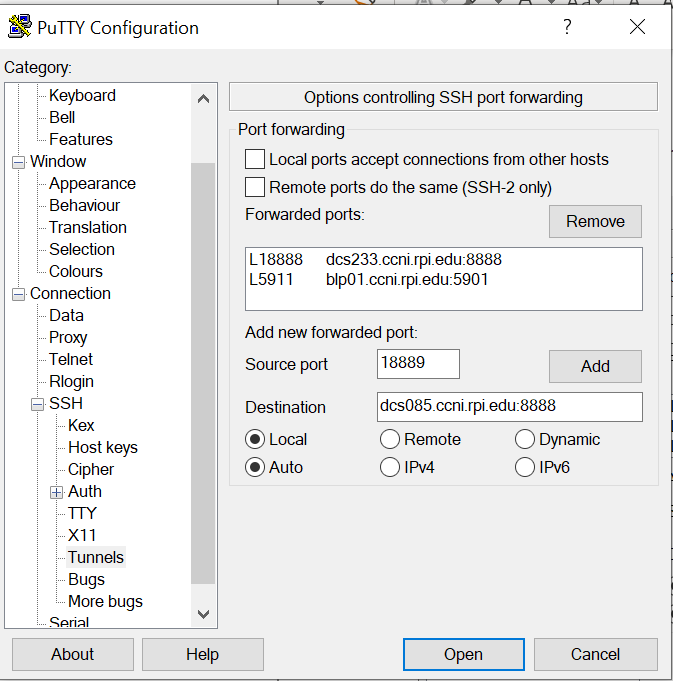
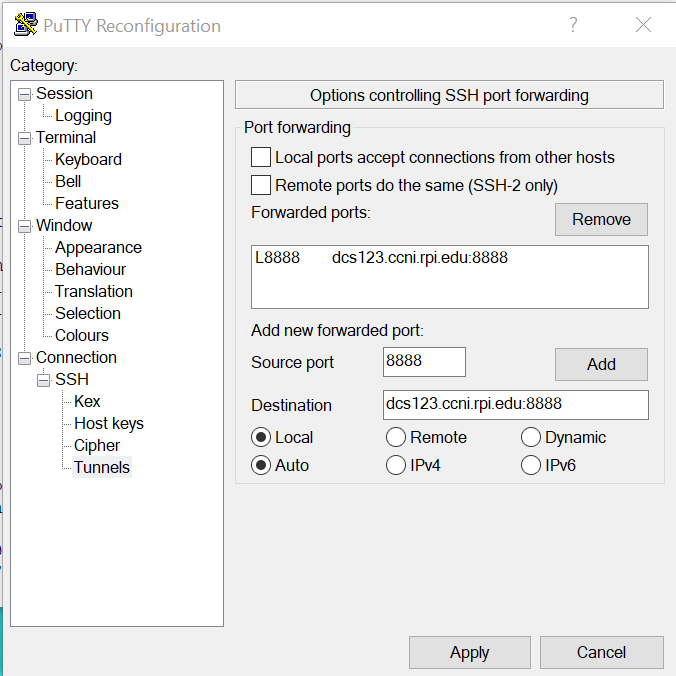
more doc updates 10

diff --git a/docs/searchindex.js b/docs/searchindex.js
@@ -1,1 +1,1 @@
-Search.setIndex({docnames:["aimos-basics","aimos-benchmark","aimos-env-basics","aimos-getting-help","aimos-hints-tips","aimos-submit-job","aimos-userid","aimos-workload","index"],envversion:{"sphinx.domains.c":2,"sphinx.domains.changeset":1,"sphinx.domains.citation":1,"sphinx.domains.cpp":2,"sphinx.domains.index":1,"sphinx.domains.javascript":2,"sphinx.domains.math":2,"sphinx.domains.python":2,"sphinx.domains.rst":2,"sphinx.domains.std":1,sphinx:56},filenames:["aimos-basics.rst","aimos-benchmark.rst","aimos-env-basics.rst","aimos-getting-help.rst","aimos-hints-tips.rst","aimos-submit-job.rst","aimos-userid.rst","aimos-workload.rst","index.rst"],objects:{},objnames:{},objtypes:{},terms:{"0kb":4,"10g":2,"16node":1,"1kb":4,"1node":1,"243g":5,"249g":5,"256g":5,"25m":5,"27t12":2,"2node":1,"387t":5,"3kb":4,"48hr":[2,5],"4node":1,"640t":5,"64k":5,"77m":5,"843d9e0198f2a193a3484886fa28163c":7,"8node":1,"case":[2,6],"class":1,"default":[1,2,4,7],"export":[2,4,7],"import":[1,2,4,6,7],"long":2,"new":[4,6,8],"null":4,"public":[2,4,7],"return":[5,7],"short":[0,6,8],"switch":1,"try":[1,2],"var":5,DCS:[0,2,5,6,7,8],For:[0,1,2,3,4,5,6,7],Its:2,QoS:2,That:7,The:[0,1,4,5,6,7,8],There:[0,2,4,5,6],These:2,Use:[5,6],Used:[5,8],With:5,__conda_setup:4,_download:7,_libgcc_mutex:7,abil:2,abort:7,abov:[1,5,7],absolut:7,ac922:0,acceler:7,accept:[6,7],access:[0,1,2,3,4,5,8],accordingli:1,account:[2,6],accur:2,accuraci:1,activ:[5,7],adc:6,add:[6,7],add_argu:1,add_scalar:1,added:[2,5,7],adding:2,addit:[0,1,2,8],address:5,advanc:2,affect:2,after:[1,5,6,7],again:2,age:2,agreement:7,aimo:[1,3,5,7],aimos_cleveland_clin:6,aimos_kla:6,aimos_synopsi:6,aimos_tel:6,aimosx:0,albani:8,alia:7,all:[2,3,4,5,6,7],alloc:[0,5],allow:[5,7],along:6,alreadi:[2,5,6],also:[0,2,4,5,6,7],altern:5,among:2,anaconda3:7,anaconda:[4,8],ani:[2,6],anoth:[2,6],answer:[3,6],app:6,appli:8,applic:[0,4,5,7],appropri:[2,7],approv:[2,6],arch:4,architectur:[4,7],archiv:7,area:2,arg:1,around:3,asn1crypto:7,asset:6,assum:[2,4,5],assumpt:6,attempt:2,authent:[5,6],authorized_kei:2,auto_activate_bas:7,automak:7,automat:7,avail:[1,2,3,4,5,7],averag:2,avg:1,avoid:4,awk:5,backup:6,bank:6,barn:[2,4,5,7],base:[3,4,5,6,7],bash:[2,4,5,7],bashrc:[2,7,8],basi:2,basic:8,batch:[2,8],bazel:7,becaus:2,bed:[0,8],been:[2,5],befor:[0,4,7],begin:2,below:[5,7],benchmark:8,best:[2,3,7],better:2,between:[2,5],bin:[4,5,7],bind:5,block:4,blog:1,blp01:[0,1,4,6,7],blp02:[0,6],blp03:[0,6],blp04:[0,6],blp:4,blue:3,bmhr:[1,2,4,7],bmhrkmkh:[1,2,4,5,6,7],bmhrxxxx:6,both:7,briot:1,brower:1,browser:7,build:[0,7],built:4,bus:4,busi:2,cab:8,cach:7,cad:[6,8],calcul:2,call:3,can:[0,1,2,4,5,6,7],cancel:2,capabl:[2,5],cat:2,ccach:7,cci:[0,2,4,5,7],cci_user_inform:6,cci_user_responsibility_agr:6,ccni:[0,1,4,5,6,7],center:[0,1,2,6,8],certif:7,cgroup:5,chang:[2,7],channel:[1,3,4,7],charact:6,chdir:2,cheatsheet:7,check:[2,4],checkpoint:2,chip:8,choos:6,chosen:6,clang:7,click:[6,7],close:7,cluster:[0,2,5,7,8],cmake3:7,cmake:7,code:[2,4,7],collect:7,com:[1,2,3,4,6,7],combin:[2,5,7],come:[2,7],command:[0,1,4,5,8],common:8,commun:7,compil:[0,7],complet:[2,5,6,7],comput:[2,4,8],concaten:2,conda:[1,8],condabin:7,condarc:[7,8],conf:7,config:7,configur:[0,2,4],confirm:7,connect:[4,7],consid:7,consist:[0,2],constraint:2,consum:2,contain:[0,1,2,4,5,7],content:[4,8],continu:[2,7],copi:4,core:[0,5],count:2,cpu:[2,7],creat:[2,4,5,8],csh:7,csv:1,ctrl:7,cuda:7,current:[2,5,7],current_repodata:7,custom:2,cut:4,dai:2,data:[6,8],dataset:8,dcs003:1,dcs009:1,dcs026:1,dcs035:7,dcs049:1,dcs055:5,dcs085:7,dcs218:2,dcs249:[2,5],dcs:[2,5,7],dcs_supercomput:5,dcsfen01:[0,1,2,4,5,6,7],dcsfen02:[0,2,4,6],deactiv:7,dealloc:5,debug:2,deep:7,defin:[1,2],deni:5,depend:[4,7],describ:[6,7],descript:6,desktop:4,destop:1,determin:2,dev:[4,5],develop:[0,2,7],developpez:1,devic:6,devtmpf:5,dhe:[4,7],differ:[0,7],dir:[1,7],direct:5,directori:[1,2,4,5,7],disk:4,displai:[1,2,8],distribut:7,divis:6,doc:[1,4,7],document:[0,1,6,7],documet:3,doe:[2,6,7],don:2,done:7,down:2,download:[1,7],drain:2,dram:0,draw:1,dual:0,due:2,each:[0,2],earli:4,eas:1,ecdsa:[2,5,7],edit:7,edr:0,edt:3,edu:[0,1,2,4,5,6,7],effect:[2,7],effectvusag:2,effici:7,either:[2,6],els:[1,4,5],email:[2,3,5,6],emerg:3,empti:2,enabl:[2,7,8],end:[2,4,5,7,8],enough:2,enter:[2,6,7],enterpris:7,entri:7,env:[5,7],environ:[0,4,5,6,8],epoch:1,err:[2,5],error:[2,4],esourc:2,essenc:5,estim:2,etc:[0,1,2,3,4,5,7],eval:4,event:1,everyon:2,everyth:6,exampl:[1,2,4,5,6,7],exceed:5,except:1,execut:[0,2,4,5,7],exist:[2,6,7],experi:[1,2],experiment:1,expr:5,express:2,extens:[4,7],extenst:7,extern:[0,6],facil:3,factor:2,fail:[2,5],fair:2,fairseq:1,fals:7,fan:1,feb:6,fewer:2,fftw:7,fichier:1,fifti:0,file:[4,5,7,8],file_system:2,filesystem:[2,5,7],fill:6,find:[0,3,4,7],fingerprint:2,finish:7,first:[0,2,5,6],fish:7,fit:2,fix:2,focus:8,follow:[2,4,5,6,7],forg:[4,7],forget:[2,6],form:6,format:1,formerli:7,forward:2,found:6,four:6,fourteen:0,framework:7,free:[1,7],frequent:8,frequently_asked_quest:4,fri:6,from:[1,2,4,5,6,7],front:[2,4,5,7,8],full:8,gatewai:6,gcc:[5,7],gener:[2,5,7,8],get:[2,4,5,6,8],get_start:1,ghz:0,gib:[0,2],git:7,github:1,given:2,global:8,global_rank:1,gnu:7,gold:0,googl:6,gpf:[1,4,5,7,8],gpu:[0,1,2,4,5,7],gpu_uuid:1,grade:7,grant:[2,5],graph:1,gre:[2,5,7],greater:2,grep:7,group:2,guest:6,guid:4,h1bed415_2:7,h7b6447c_3:7,hardwar:[0,1,2,4,6,7,8],has:[0,2,5],have:[0,1,2,3,5,6,7],hbm:0,hdf5:7,header:0,headquart:8,hello_mpi:5,hello_mpi_:5,hello_mpi_c:5,help:[1,8],henc:2,here:[6,7],herger:[2,3,6],high:4,hint:[2,8],home:[1,2,4,7],hook:[4,7],hopefulli:2,host:[1,2,5,7],host_nam:4,hostfil:5,hostnam:[4,5],hour:[2,3,6,8],how:[0,2,4,5,6,7],howev:2,hpc:4,hpcman:6,hpe:0,htm:7,html:[1,2,4],http:[0,1,2,4,5,6,7],http_proxi:2,https_proxi:2,hub:8,hundr:0,hwloc:7,i7oyesm4ius9vhbtxoyi4vy7daot9fmpjoq8ssiibci:2,ibm:[0,1,2,3,4,6,7,8],ibm_powerai_license_accept:7,ibmdl:[4,7],id_rsa:2,identif:2,idh:7,idl:2,imag:2,impact:2,impl:2,implement:2,importerror:1,includ:[2,5,7],increas:2,individu:7,infiniband:0,info:7,inform:[0,1,2,4,5,7],ing:6,init:[7,8],initi:[4,5,6,7,8],input:2,insid:2,instal:[1,4,6,8],instead:5,integr:1,intel:0,intend:[2,7],interact:8,interest:1,inux:2,invok:2,ipynb:[1,4],issu:[0,3,6],its:[2,5,8],jerom:1,job:[0,8],job_64444:5,job_:5,job_id:5,jobid:[2,5,7],json:7,jun:6,jupyt:[1,4,8],justif:2,kei:2,keygen:2,kill:5,know:4,knowledgecent:7,known:[2,5,7],kvt:[1,7],l6006:1,l8888:7,land:[2,4,7,8],landingpad:[0,4],laptop:4,larg:[2,4],last:[2,6],later:[0,2],latest:[4,5,7],launch:2,layout:2,lead:6,leader:6,learn:[1,7],least:6,less:2,let:2,letter:6,level:[2,7],lib:7,librari:[0,5,8],licens:7,like:[2,5],limit:[5,6],line:[2,5,6,7],link:[0,2,6],linux:[4,5],linuxonpow:7,list:[1,2,5,6,7],llvm:7,load:[0,5,8],local:7,localhost:[1,7],locat:7,locker:1,log:[0,1,2,4,5,6,7],log_dir:1,log_writ:1,logdir:1,logdir_spec:1,login:[0,2,5,7,8],logwritt:1,longer:[2,5],look:4,loop:1,lorrain:[2,3,6],loss:1,machin:[1,7],made:[1,6],mai:[0,2,4,6,7],mail:[2,5],main:7,maintain:2,mainten:3,make:7,man_index:2,manag:[0,4,6,8],manpag:2,map:7,mar:6,max:2,maximum:[2,5],mean:2,meant:2,medium:2,meet:2,mellanox:0,member:6,memori:[1,4],metadata:7,min:2,miniconda3:[4,5,7],miniconda:7,minim:7,minut:[2,5,7],miss:6,mnt:5,mob2:1,mobil:6,mobilenetv2:1,modifi:[1,4,7],modul:[0,4,5,8],monitor:8,month:2,more:[0,1,2,4,5,7],mount:[2,4,5,7],mpi:[2,5,7],mpirun:[5,7],multigpu_bas:4,multipl:1,must:[4,5,7],nagement:2,name:[2,4,5,6,7],navig:7,ncpu:2,need:[0,1,2,6,7],newli:6,next:[6,7,8],noarch:4,node:[2,4,8],nodelist:[2,5,7],none:1,normshar:2,note:[2,4,5,6,7],notebok:7,notebook:[1,4,8],notif:[2,3],notifi:2,now:[1,2,5,6,7],npl41:6,npl:[0,2,5,6,7,8],nplfen01:[0,4,6],ntask:[2,5],ntellig:[0,8],number:[2,3,5,6],nvidia:[0,7],nvidia_2nod:1,nvme0n1:5,nvme:[0,8],obtain:6,off:3,onc:[2,6],one:[0,2,5,6,7],onli:[0,1,2,3,5,6,7],open:[1,7],openmpi:4,oper:[2,4,6],opt:7,option:5,order:[0,1,2,4,7],org:[1,7],organ:6,other:[2,5],out:[1,2,3,5,6,8],output:2,over:2,overal:2,overview:[6,8],overwrit:2,own:6,pack:2,packag:[1,4,7],pad:[2,4,7,8],page:3,pair:2,pam_slurm_adopt:5,parallel:2,paramet:7,parent:2,parser:1,particularli:2,partit:[2,5,7],partner:[2,6],pass:2,passphras:2,password:4,passwordless:[5,6],pasword:6,path:[2,4,5,7],payload:7,pci:4,pdf:[2,6,7],pend:2,per:[0,2,5],percentag:2,perform:2,period:2,perman:[2,5,7],persist:5,person:2,phone:3,pic:4,pin:6,pip:7,pkg:7,place:1,plan:7,pleas:[0,2,3,4,6,7],plot:1,plot_nvidia:1,point:1,polici:6,popular:7,port:[1,7],possibl:4,post:3,potenti:8,power9:0,power:[0,1,3,5,7,8],powerai:[4,8],ppc64le:[4,5,7],practic:7,prebuilt:4,prefer:7,prefix:7,prepar:7,prerequisit:8,press:7,previou:6,primari:2,print:5,prioriti:2,privat:2,proce:7,process:[2,6,7,8],processor:0,profil:[4,7],program:[2,5],proj:2,project:[2,4,6,7],prompt:[4,6,7],properti:1,provid:[1,4,6],proxi:[6,7],ps1:7,psm1:7,pstate:1,ptimiz:[0,8],pub:[2,4,7],purg:2,pwd:5,py37_0:7,python3:7,python:7,pytorch:[1,7],pytorch_:2,qos:[2,5],qualiti:2,queri:1,question:[3,6],queue:5,quota:[2,4],rack:0,ram:0,randomart:2,rapid:7,rawshar:2,rawusag:2,read:2,readi:6,real:2,realiz:8,reason:[2,5,7],recalcul:2,receiv:[2,5,6],recip:1,recommend:[2,6,7],ref:7,refer:[0,7],regard:5,regularli:2,relat:3,releas:7,rememb:2,remot:2,remov:[2,5,7],reorder:2,replac:7,repo:[1,7],report:[2,5,6],repositori:[4,8],request:[1,2,6,8],requir:[2,5,7,8],research:[0,6,8],reset:6,resnet:1,resourc:[0,6,8],respect:1,restart:2,review:7,revok:5,rhel:[1,7],root:4,rootf:5,rpi:[0,1,2,4,5,6,7],rsa:2,rtifici:[0,8],run:[0,1,2,7,8],runtim:[2,4],sai:2,salloc:[5,7],same:[2,4,7],sampl:[1,5,8],save:2,sbatch:5,scan:6,schedmd:2,schednod:2,schedul:[0,3,8],scp:4,scratch:[1,2,4,5,7],script:[1,2,5],scriptthat:5,search:[4,7],sec:0,section:[0,1,2,6,7],secur:[0,2,3,4,5,6,7],see:[0,1,2,4,5,6,7],send:[2,3,6],sensit:6,sent:3,separ:7,serv:[0,2,8],server:[4,7],servic:[2,6],session:[5,7],set:[1,4,5,8],setup:[1,5,6,7,8],sha256:2,share:[4,5,7,8],she:2,shell:[2,4,7],shm:5,shorter:2,should:[1,2,3,5,7],sign:6,signal:5,signific:2,similar:6,sinc:[2,4,7],singl:1,site:7,size:[2,4,5],slack:[1,3],slice:2,sllocal:5,slot:5,slurm:[0,5,8],slurm_job_num_nod:5,slurm_job_uid:5,slurm_jobid:5,slurm_nproc:5,slurm_ntask_per_nod:5,slurm_ntasks_per_nod:5,small:2,snippet:4,softwar:[4,7],solv:7,some:[0,1,2,4],sometim:0,sort:5,sourc:[1,2,7],space:[2,6],spec:7,special:6,specif:[4,7],specifi:[2,4,5,7],spectrum:[5,7],spectrum_mpi:[4,7],speed:[1,4,8],spider:[4,7],squeue:[5,7],sromxxxx:6,srun:[2,5],ss5sf7_1:7,ssd:0,ssh:[1,2,5],stabl:1,stage:2,standard:2,start:[1,2,5],start_tim:2,startup:7,state:2,step:[1,2,5,6,7],storag:[0,2,8],store:[1,2],strongli:[2,6,7],subject:6,submit:[0,2,8],subsequ:2,suffici:[2,6],summari:2,summarywrit:1,summit:0,support:[3,6,7,8],sure:7,sys:5,system:[0,4,5,6,7,8],take:[2,7],tangibl:2,task:[2,4],team:2,tee:1,tell:5,temperatur:1,temporari:2,tensorboard_with_pytorch:1,tensorflow:[1,7],term:[2,6,7],termin:4,tesla:0,test:[0,7,8],test_mobnetv2:1,test_mobnetv2_16:1,test_mobnetv2_1:1,test_mobnetv2_2:1,test_mobnetv2_4:1,test_mobnetv2_8:1,text:7,tfevent:1,than:[2,7],thank:7,thei:[2,5],them:[0,6],thi:[0,1,2,4,5,6,7],thing:[2,7],those:2,throughput:2,thu:6,tiliti:2,time:[2,6,7,8],timelimit:2,timestamp:1,tip:8,titl:6,tmp:5,tmpf:5,togeth:[1,4],token:[4,6,7],tool:[0,5,8],toolkit:1,top1:1,torch:1,total:[1,2],totp:6,train:1,transact:7,transfer:8,transferring_large_fil:4,tremend:8,troubleshoot:8,tuesdai:3,tunnel:[1,8],tutori:1,twice:6,two:[0,2,6],txt:1,type:[2,5],typic:2,uid:5,uid_6112:5,uid_:5,ultiprocess:[0,8],unam:4,unless:2,unpack:7,unpreced:8,unschedul:3,unset:4,updat:7,url:7,usag:[2,4],use:[0,1,2,4,5,6,7],used:[0,1,2,6],user:[1,2,3,4,5,7,8],uses:2,using:[2,4,5,6],usr:7,usual:7,util:[1,2],v100:0,val:1,valid:[1,7],valu:[2,5],variabl:5,variant:0,variou:7,verifi:7,versa:7,version:7,via:[0,2,5,8],vice:7,visibl:2,visual:7,volta:0,vulner:3,wait:2,want:[1,4,5,7],warn:[2,5,7],water:3,watson:7,web:7,webgui:8,webpag:6,weekli:3,weight:2,welcom:7,well:7,were:1,wget:7,what:[2,5,7,8],when:[2,4,5],where:[0,4,6,7],which:[2,4,5,7],who:[2,6],whole:[2,5,7],wiki:[0,2,4,5,6,7],window:4,wish:[6,7],within:[2,4],without:6,wml:[4,8],wmlce:7,wmlce_instal:7,work:[2,3],workdir:2,workload:[2,4,8],would:[2,5,7],writ:7,write:2,www:[1,7],x86:[0,5,7,8],x86_64:7,xeon:0,xobo:2,xontrib:7,xsh:7,xxx:1,xxxxxxxxxxxxxxxx:6,yaml:7,yes:7,yet:5,york:8,you:[0,1,2,3,4,5,6,7],your:[0,1,2,3,4,5,8],yourid:5,ystem:0,zlib:7},titles:["AiMOS Overview","AI Benchmarks","AiMOS Environment Basics","Getting Help?","Hints and Tips","Submit jobs","Access to AiMOS","Set up the workload environment","AiMOS Quick Start Information"],titleterms:{"new":7,DCS:4,The:2,Used:[2,7],access:6,addit:7,agreement:6,aimo:[0,2,4,6,8],alloc:[2,7],anaconda:7,appli:6,bashrc:4,basic:2,batch:5,benchmark:1,cab:1,cad:1,cci:6,challeng:6,channel:6,cluster:4,code:[1,6],collect:1,command:[2,7],common:1,comput:[0,5,7],conda:[4,7],condarc:4,creat:7,data:[1,4],dataset:1,detail:2,displai:7,end:[0,6],environ:[2,7],fairshar:2,file:2,frequent:[2,7],front:[0,6],gener:4,get:3,gpf:2,help:3,hint:4,hour:5,identif:6,inform:[6,8],init:4,initi:2,instal:7,interact:5,job:[2,5],join:6,jupyt:7,land:[0,6],librari:7,limit:2,linux:7,load:7,login:6,mac:7,manag:2,modul:7,monitor:1,node:[0,5,6,7],notebook:7,npl:4,nvidia:1,nvme:5,option:2,osx:7,out:4,overview:0,pad:[0,6],password:6,passwordless:2,person:6,pic:6,polici:2,power:4,powerai:7,prerequisit:[5,7],proxi:2,putti:7,queue:2,quick:8,repositori:1,request:5,resourc:2,respons:6,run:5,salloc:2,sampl:4,sbatch:2,scancel:2,schedul:2,set:[2,6,7],setup:2,share:2,sinfo:2,slack:6,slurm:2,smi:1,snippet:1,squeue:2,ssh:[6,7],sshare:2,start:[7,8],storag:5,submit:5,system:2,tensorboard:1,time:5,tip:4,tool:[1,7],transfer:4,troubleshoot:4,tunnel:7,user:6,via:7,visual:1,webgui:7,what:0,window:7,wml:7,word:6,workload:7,x86:4,your:[6,7]}})
+Search.setIndex({docnames:["aimos-basics","aimos-benchmark","aimos-env-basics","aimos-getting-help","aimos-hints-tips","aimos-submit-job","aimos-userid","aimos-workload","index"],envversion:{"sphinx.domains.c":2,"sphinx.domains.changeset":1,"sphinx.domains.citation":1,"sphinx.domains.cpp":2,"sphinx.domains.index":1,"sphinx.domains.javascript":2,"sphinx.domains.math":2,"sphinx.domains.python":2,"sphinx.domains.rst":2,"sphinx.domains.std":1,sphinx:56},filenames:["aimos-basics.rst","aimos-benchmark.rst","aimos-env-basics.rst","aimos-getting-help.rst","aimos-hints-tips.rst","aimos-submit-job.rst","aimos-userid.rst","aimos-workload.rst","index.rst"],objects:{},objnames:{},objtypes:{},terms:{"0kb":4,"10g":2,"16node":1,"1kb":4,"1node":1,"243g":5,"249g":5,"256g":5,"25m":5,"27t12":2,"2node":1,"387t":5,"3kb":4,"48hr":[2,5],"4node":1,"640t":5,"64k":5,"77m":5,"843d9e0198f2a193a3484886fa28163c":7,"8node":1,"case":[2,6],"class":1,"default":[1,2,4,7],"export":[2,4,7],"import":[1,2,4,6,7],"long":2,"new":[4,6,8],"null":4,"public":[2,4,7],"return":[5,7],"short":[0,6,8],"switch":1,"try":[1,2],"var":5,DCS:[0,2,5,6,7,8],For:[0,1,2,3,4,5,6,7],Its:2,QoS:2,That:7,The:[0,1,4,5,6,7,8],There:[0,2,4,5,6],These:2,Use:[5,6],Used:[5,8],With:5,__conda_setup:4,_download:7,_libgcc_mutex:7,abil:2,abort:7,abov:[1,5,7],absolut:7,ac922:0,acceler:7,accept:[6,7],access:[0,1,2,3,4,5,8],accordingli:1,account:[2,6],accur:2,accuraci:1,activ:[5,7],adc:6,add:[6,7],add_argu:1,add_scalar:1,added:[2,5,7],adding:2,addit:[0,1,2,8],address:5,advanc:2,affect:2,after:[1,5,6,7],again:2,age:2,agreement:7,aimo:[1,3,5,7],aimos_cleveland_clin:6,aimos_kla:6,aimos_synopsi:6,aimos_tel:6,aimosx:0,albani:8,alia:7,all:[2,3,4,5,6,7],alloc:[0,5],allow:[5,7],along:6,alreadi:[2,5,6],also:[0,2,4,5,6,7],altern:5,among:2,anaconda3:7,anaconda:[4,8],ani:[2,6],anoth:[2,6],answer:[3,6],app:6,appli:[7,8],applic:[0,4,5,7],appropri:[2,7],approv:[2,6],arch:4,architectur:[4,7],archiv:7,area:2,arg:1,around:3,asn1crypto:7,asset:6,assum:[2,4,5],assumpt:6,attempt:2,authent:[5,6],authorized_kei:2,auto_activate_bas:7,automak:7,automat:7,avail:[1,2,3,4,5,7],averag:2,avg:1,avoid:4,awai:7,awk:5,backup:6,bank:6,barn:[2,4,5,7],base:[3,4,5,6,7],bash:[2,4,5,7],bashrc:[2,7,8],basi:2,basic:8,batch:[2,8],bazel:7,becaus:2,bed:[0,8],been:[2,5],befor:[0,4,7],begin:2,below:[5,7],benchmark:8,best:[2,3,7],better:2,between:[2,5],bin:[4,5,7],bind:5,block:4,blog:1,blp01:[0,1,4,6,7],blp02:[0,6],blp03:[0,6],blp04:[0,6],blp:4,blue:3,bmhr:[1,2,4,7],bmhrkmkh:[1,2,4,5,6,7],bmhrxxxx:6,both:7,briot:1,brower:1,browser:7,build:[0,7],built:4,bus:4,busi:2,button:7,cab:8,cach:7,cad:[6,8],calcul:2,call:3,can:[0,1,2,4,5,6,7],cancel:2,capabl:[2,5],cat:2,ccach:7,cci:[0,2,4,5,7],cci_user_inform:6,cci_user_responsibility_agr:6,ccni:[0,1,4,5,6,7],center:[0,1,2,6,8],certif:7,cgroup:5,chang:[2,7],channel:[1,3,4,7],charact:6,chdir:2,cheatsheet:7,check:[2,4],checkpoint:2,chip:8,choos:6,chosen:6,clang:7,click:[6,7],close:7,cluster:[0,2,5,7,8],cmake3:7,cmake:7,code:[2,4,7],collect:7,com:[1,2,3,4,6,7],combin:[2,5,7],come:[2,7],command:[0,1,4,5,8],common:8,commun:7,compil:[0,7],complet:[2,5,6,7],comput:[2,4,8],concaten:2,conda:[1,8],condabin:7,condarc:[7,8],conf:7,config:7,configur:[0,2,4],confirm:7,connect:[4,7],consid:7,consist:[0,2],constraint:2,consum:2,contain:[0,1,2,4,5,7],content:[4,8],continu:[2,7],copi:4,core:[0,5],count:2,cpu:[2,7],creat:[2,4,5,8],csh:7,csv:1,ctrl:7,cuda:7,current:[2,5,7],current_repodata:7,custom:2,cut:4,dai:2,data:[6,8],dataset:8,dcs003:1,dcs009:1,dcs026:1,dcs035:7,dcs049:1,dcs055:5,dcs085:7,dcs123:7,dcs218:2,dcs249:[2,5],dcs:[2,5,7],dcs_supercomput:5,dcsfen01:[0,1,2,4,5,6,7],dcsfen02:[0,2,4,6],deactiv:7,dealloc:5,debug:2,deep:7,defin:[1,2],deni:5,depend:[4,7],describ:[6,7],descript:6,desktop:4,destop:1,determin:2,dev:[4,5],develop:[0,2,7],developpez:1,devic:6,devtmpf:5,dhe:[4,7],differ:[0,7],dir:[1,7],direct:5,directori:[1,2,4,5,7],disk:4,displai:[1,2,8],distribut:7,divis:6,doc:[1,4,7],document:[0,1,6,7],documet:3,doe:[2,6,7],don:2,done:7,down:2,download:[1,7],drain:2,dram:0,draw:1,dual:0,due:2,each:[0,2],earli:4,eas:1,ecdsa:[2,5,7],edit:7,edr:0,edt:3,edu:[0,1,2,4,5,6,7],effect:[2,7],effectvusag:2,effici:7,either:[2,6],els:[1,4,5],email:[2,3,5,6],emerg:3,empti:2,enabl:[2,7,8],end:[2,4,5,7,8],enough:2,enter:[2,6,7],enterpris:7,env:[5,7],environ:[0,4,5,6,8],epoch:1,err:[2,5],error:[2,4],esourc:2,essenc:5,estim:2,etc:[0,1,2,3,4,5,7],eval:4,event:1,everyon:2,everyth:6,exampl:[1,2,4,5,6,7],exceed:5,except:1,execut:[0,2,4,5,7],exist:[2,6,7],experi:[1,2],experiment:1,expr:5,express:2,extens:[4,7],extenst:7,extern:[0,6],facil:3,factor:2,fail:[2,5],fair:2,fairseq:1,fals:7,fan:1,feb:6,fewer:2,fftw:7,fichier:1,fifti:0,file:[4,5,7,8],file_system:2,filesystem:[2,5,7],fill:6,find:[0,3,4,7],fingerprint:2,finish:7,first:[0,2,5,6],fish:7,fit:2,fix:2,focus:8,follow:[2,4,5,6,7],forg:[4,7],forget:[2,6],form:6,format:1,formerli:7,forward:2,found:6,four:6,fourteen:0,framework:7,free:[1,7],frequent:8,frequently_asked_quest:4,fri:6,from:[1,2,4,5,6,7],front:[2,4,5,7,8],full:8,gatewai:6,gcc:[5,7],gener:[2,5,7,8],get:[2,4,5,6,8],get_start:1,ghz:0,gib:[0,2],git:7,github:1,given:2,global:8,global_rank:1,gnu:7,gold:0,googl:6,gpf:[1,4,5,7,8],gpu:[0,1,2,4,5,7],gpu_uuid:1,grade:7,grant:[2,5],graph:1,gre:[2,5,7],greater:2,grep:7,group:2,guest:6,guid:4,h1bed415_2:7,h7b6447c_3:7,hardwar:[0,1,2,4,6,7,8],has:[0,2,5],have:[0,1,2,3,5,6,7],hbm:0,hdf5:7,header:0,headquart:8,hello_mpi:5,hello_mpi_:5,hello_mpi_c:5,help:[1,8],henc:2,here:[6,7],herger:[2,3,6],high:4,hint:[2,8],home:[1,2,4,7],hook:[4,7],hopefulli:2,host:[1,2,5,7],host_nam:4,hostfil:5,hostnam:[4,5],hour:[2,3,6,8],how:[0,2,4,5,6,7],howev:2,hpc:4,hpcman:6,hpe:0,htm:7,html:[1,2,4],http:[0,1,2,4,5,6,7],http_proxi:2,https_proxi:2,hub:8,hundr:0,hwloc:7,i7oyesm4ius9vhbtxoyi4vy7daot9fmpjoq8ssiibci:2,ibm:[0,1,2,3,4,6,7,8],ibm_powerai_license_accept:7,ibmdl:[4,7],id_rsa:2,identif:2,idh:7,idl:2,imag:2,impact:2,impl:2,implement:2,importerror:1,includ:[2,5,7],increas:2,individu:7,infiniband:0,info:7,inform:[0,1,2,4,5,7],ing:6,init:[7,8],initi:[4,5,6,7,8],input:2,insid:2,instal:[1,4,6,8],instead:5,integr:1,intel:0,intend:[2,7],interact:8,interest:1,inux:2,invok:2,ipynb:[1,4],issu:[0,3,6],its:[2,5,8],jerom:1,job:[0,8],job_64444:5,job_:5,job_id:5,jobid:[2,5,7],json:7,jun:6,jupyt:[1,4,8],justif:2,kei:2,keygen:2,kill:5,know:4,knowledgecent:7,known:[2,5,7],kvt:[1,7],l6006:1,l8888:7,land:[2,4,7,8],landingpad:[0,4],laptop:4,larg:[2,4],last:[2,6],later:[0,2],latest:[4,5,7],launch:2,layout:2,lead:6,leader:6,learn:[1,7],least:6,less:2,let:2,letter:6,level:[2,7],lib:7,librari:[0,5,8],licens:7,like:[2,5],limit:[5,6],line:[2,5,6,7],link:[0,2,6],linux:[4,5],linuxonpow:7,list:[1,2,5,6,7],llvm:7,load:[0,5,8],local:7,localhost:[1,7],locat:7,locker:1,log:[0,1,2,4,5,6,7],log_dir:1,log_writ:1,logdir:1,logdir_spec:1,login:[0,2,5,7,8],logwritt:1,longer:[2,5],look:4,loop:1,lorrain:[2,3,6],loss:1,machin:[1,7],made:[1,6],mai:[0,2,4,6,7],mail:[2,5],main:7,maintain:2,mainten:3,make:7,man_index:2,manag:[0,4,6,8],manpag:2,map:7,mar:6,max:2,maximum:[2,5],mean:2,meant:2,medium:2,meet:2,mellanox:0,member:6,memori:[1,4],metadata:7,min:2,miniconda3:[4,5,7],miniconda:7,minim:7,minut:[2,5,7],miss:6,mnt:5,mob2:1,mobil:6,mobilenetv2:1,modifi:[1,4,7],modul:[0,4,5,8],monitor:8,month:2,more:[0,1,2,4,5,7],mount:[2,4,5,7],mpi:[2,5,7],mpirun:[5,7],multigpu_bas:4,multipl:1,must:[4,5,7],nagement:2,name:[2,4,5,6,7],navig:7,ncpu:2,need:[0,1,2,6,7],newli:6,next:[6,7,8],noarch:4,node:[2,4,8],nodelist:[2,5,7],none:1,normshar:2,note:[2,4,5,6,7],notebok:7,notebook:[1,4,8],notebookapp:7,notif:[2,3],notifi:2,now:[1,2,5,6,7],npl41:6,npl:[0,2,5,6,7,8],nplfen01:[0,4,6],ntask:[2,5],ntellig:[0,8],number:[2,3,5,6],nvidia:[0,7],nvidia_2nod:1,nvme0n1:5,nvme:[0,8],obtain:6,off:3,onc:[2,6,7],one:[0,2,5,6,7],onli:[0,1,2,3,5,6,7],open:[1,7],openmpi:4,oper:[2,4,6],opt:7,option:5,order:[0,1,2,4,7],org:[1,7],organ:6,other:[2,5],out:[1,2,3,5,6,8],output:2,over:2,overal:2,overview:[6,8],overwrit:2,own:6,pack:2,packag:[1,4,7],pad:[2,4,7,8],page:3,pair:2,pam_slurm_adopt:5,parallel:2,paramet:7,parent:2,parser:1,particularli:2,partit:[2,5,7],partner:[2,6],pass:2,passphras:2,password:4,passwordless:[5,6],pasword:6,path:[2,4,5,7],payload:7,pci:4,pdf:[2,6,7],pend:2,per:[0,2,5],percentag:2,perform:2,period:2,perman:[2,5,7],persist:5,person:2,phone:3,pic:4,pin:6,pip:7,pkg:7,place:1,plan:7,pleas:[0,2,3,4,6,7],plot:1,plot_nvidia:1,point:1,polici:6,popular:7,port:[1,7],possibl:4,post:3,potenti:8,power9:0,power:[0,1,3,5,7,8],powerai:[4,8],ppc64le:[4,5,7],practic:7,prebuilt:4,prefer:7,prefix:7,prepar:7,prerequisit:8,press:7,previou:6,primari:2,print:5,prioriti:2,privat:2,proce:7,process:[2,6,7,8],processor:0,profil:[4,7],program:[2,5],proj:2,project:[2,4,6,7],prompt:[4,6,7],properti:1,provid:[1,4,6],proxi:[6,7],ps1:7,psm1:7,pstate:1,ptimiz:[0,8],pub:[2,4,7],purg:2,pwd:5,py37_0:7,python3:7,python:7,pytorch:[1,7],pytorch_:2,qos:[2,5],qualiti:2,queri:1,question:[3,6],queue:5,quota:[2,4],rack:0,ram:0,randomart:2,rapid:7,rawshar:2,rawusag:2,read:2,readi:6,real:2,realiz:8,reason:[2,5,7],recalcul:2,receiv:[2,5,6],recip:1,recommend:[2,6,7],ref:7,refer:[0,7],regard:5,regularli:2,relat:3,releas:7,rememb:2,remot:2,remov:[2,5,7],reorder:2,replac:7,repo:[1,7],report:[2,5,6],repositori:[4,8],request:[1,2,6,8],requir:[2,5,7,8],research:[0,6,8],reset:6,resnet:1,resourc:[0,6,8],respect:1,restart:2,review:7,revok:5,rhel:[1,7],root:4,rootf:5,rpi:[0,1,2,4,5,6,7],rsa:2,rtifici:[0,8],run:[0,1,2,7,8],runtim:[2,4],sai:2,salloc:[5,7],same:[2,4,7],sampl:[1,5,8],save:2,sbatch:5,scan:6,schedmd:2,schednod:2,schedul:[0,3,8],scp:4,scratch:[1,2,4,5,7],script:[1,2,5],scriptthat:5,search:[4,7],sec:0,section:[0,1,2,6,7],secur:[0,2,3,4,5,6,7],see:[0,1,2,4,5,6,7],send:[2,3,6],sensit:6,sent:3,separ:7,serv:[0,2,7,8],server:[4,7],servic:[2,6],session:[5,7],set:[1,4,5,8],setup:[1,5,6,7,8],sha256:2,share:[4,5,7,8],she:2,shell:[2,4,7],shm:5,shorter:2,should:[1,2,3,5,7],sign:6,signal:5,signific:2,similar:6,sinc:[2,4,7],singl:1,site:7,size:[2,4,5],slack:[1,3],slice:2,sllocal:5,slot:5,slurm:[0,5,8],slurm_job_num_nod:5,slurm_job_uid:5,slurm_jobid:5,slurm_nproc:5,slurm_ntask_per_nod:5,slurm_ntasks_per_nod:5,small:2,snippet:4,softwar:[4,7],solv:7,some:[0,1,2,4],sometim:0,sort:5,sourc:[1,2,7],space:[2,6],spec:7,special:6,specif:[4,7],specifi:[2,4,5,7],spectrum:[5,7],spectrum_mpi:[4,7],speed:[1,4,8],spider:[4,7],squeue:[5,7],sromxxxx:6,srun:[2,5],ss5sf7_1:7,ssd:0,ssh:[1,2,5],stabl:1,stage:2,standard:2,start:[1,2,5],start_tim:2,startup:7,state:2,step:[1,2,5,6,7],storag:[0,2,8],store:[1,2],strongli:[2,6,7],subject:6,submit:[0,2,8],subsequ:2,suffici:[2,6],summari:2,summarywrit:1,summit:0,support:[3,6,7,8],sure:7,sys:5,system:[0,4,5,6,7,8],take:[2,7],tangibl:2,task:[2,4],team:2,tee:1,tell:5,temperatur:1,temporari:[2,7],tensorboard_with_pytorch:1,tensorflow:[1,7],term:[2,6,7],termin:[4,7],tesla:0,test:[0,7,8],test_mobnetv2:1,test_mobnetv2_16:1,test_mobnetv2_1:1,test_mobnetv2_2:1,test_mobnetv2_4:1,test_mobnetv2_8:1,text:7,tfevent:1,than:[2,7],thank:7,thei:[2,5],them:[0,6],thi:[0,1,2,4,5,6,7],thing:[2,7],those:2,throughput:2,thu:6,tiliti:2,time:[2,6,7,8],timelimit:2,timestamp:1,tip:8,titl:6,tmp:5,tmpf:5,togeth:[1,4],token:[4,6,7],tool:[0,5,8],toolkit:1,top1:1,torch:1,total:[1,2],totp:6,train:1,transact:7,transfer:8,transferring_large_fil:4,tremend:8,troubleshoot:8,tuesdai:3,tunnel:[1,8],tutori:1,twice:6,two:[0,2,6],txt:1,type:[2,5],typic:2,uid:5,uid_6112:5,uid_:5,ultiprocess:[0,8],unam:4,unless:2,unpack:7,unpreced:8,unschedul:3,unset:4,updat:7,url:7,usag:[2,4],use:[0,1,2,4,5,6,7],used:[0,1,2,6],user:[1,2,3,4,5,7,8],uses:2,using:[2,4,5,6],usr:7,util:[1,2],v100:0,val:1,valid:[1,7],valu:[2,5],variabl:5,variant:0,variou:7,verifi:7,versa:7,version:7,via:[0,2,5,8],vice:7,visibl:2,visual:7,volta:0,vulner:3,wait:2,want:[1,4,5,7],warn:[2,5,7],water:3,watson:7,web:7,webgui:8,webpag:6,weekli:3,weight:2,welcom:7,well:7,were:1,wget:7,what:[2,5,7,8],when:[2,4,5],where:[0,4,6,7],which:[2,4,5,7],who:[2,6],whole:[2,5,7],wiki:[0,2,4,5,6,7],window:4,wish:[6,7],within:[2,4],without:6,wml:[4,8],wmlce:7,wmlce_instal:7,work:[2,3],workdir:2,workload:[2,4,8],would:[2,5,7],writ:7,write:2,www:[1,7],x86:[0,5,7,8],x86_64:7,xeon:0,xobo:2,xontrib:7,xsh:7,xxx:1,xxxxxxxxxxxxxxxx:6,yaml:7,yes:7,yet:5,york:8,you:[0,1,2,3,4,5,6,7],your:[0,1,2,3,4,5,8],yourid:5,ystem:0,zlib:7},titles:["AiMOS Overview","AI Benchmarks","AiMOS Environment Basics","Getting Help?","Hints and Tips","Submit jobs","Access to AiMOS","Set up the workload environment","AiMOS Quick Start Information"],titleterms:{"new":7,DCS:4,The:2,Used:[2,7],access:6,addit:7,agreement:6,aimo:[0,2,4,6,8],alloc:[2,7],anaconda:7,appli:6,bashrc:4,basic:2,batch:5,benchmark:1,cab:1,cad:1,cci:6,challeng:6,channel:6,cluster:4,code:[1,6],collect:1,command:[2,7],common:1,comput:[0,5,7],conda:[4,7],condarc:4,creat:7,data:[1,4],dataset:1,detail:2,displai:7,end:[0,6],environ:[2,7],fairshar:2,file:2,frequent:[2,7],front:[0,6],gener:4,get:3,gpf:2,help:3,hint:4,hour:5,identif:6,inform:[6,8],init:4,initi:2,instal:7,interact:5,job:[2,5],join:6,jupyt:7,land:[0,6],librari:7,limit:2,linux:7,load:7,login:6,mac:7,manag:2,modul:7,monitor:1,node:[0,5,6,7],notebook:7,npl:4,nvidia:1,nvme:5,option:2,osx:7,out:4,overview:0,pad:[0,6],password:6,passwordless:2,person:6,pic:6,polici:2,power:4,powerai:7,prerequisit:[5,7],proxi:2,putti:7,queue:2,quick:8,repositori:1,request:5,resourc:2,respons:6,run:5,salloc:2,sampl:4,sbatch:2,scancel:2,schedul:2,set:[2,6,7],setup:2,share:2,sinfo:2,slack:6,slurm:2,smi:1,snippet:1,squeue:2,ssh:[6,7],sshare:2,start:[7,8],storag:5,submit:5,system:2,tensorboard:1,time:5,tip:4,tool:[1,7],transfer:4,troubleshoot:4,tunnel:7,user:6,via:7,visual:1,webgui:7,what:0,window:7,wml:7,word:6,workload:7,x86:4,your:[6,7]}})

diff --git a/docs/aimos-workload.html b/docs/aimos-workload.html
@@ -99,8 +99,6 @@
 </li>
 <li class="toctree-l2"><a class="reference internal" href="#display-the-webgui-for-a-jupyter-notebook-via-tunneling">Display the WebGUI for a Jupyter notebook via Tunneling</a><ul>
 <li class="toctree-l3"><a class="reference internal" href="#prerequisites">Prerequisites</a></li>
-<li class="toctree-l3"><a class="reference internal" href="#id2">Allocate a compute node</a></li>
-<li class="toctree-l3"><a class="reference internal" href="#start-the-jupyter-notebook-on-the-allocated-compute-node">Start the jupyter notebook on the allocated compute node</a></li>
 <li class="toctree-l3"><a class="reference internal" href="#ssh-tunnelling-on-a-linux-or-mac-osx-node">SSH tunnelling on a Linux or MAC OSX node</a></li>
 <li class="toctree-l3"><a class="reference internal" href="#ssh-tunneling-via-putty-on-windows">SSH tunneling via PUTTY on Windows</a></li>
 </ul>
@@ -528,18 +526,13 @@ notebook                  <span class="m">6</span>.0.3                    py37_0
 <div class="section" id="allocate-a-compute-node">
 <h3>Allocate a compute node<a class="headerlink" href="#allocate-a-compute-node" title="Permalink to this headline">¶</a></h3>
 <p>For example, allocate a compute node for 30 minutes:</p>
-<div class="highlight-bash notranslate"><div class="highlight"><pre><span></span>salloc -N <span class="m">1</span> --salloc -N <span class="m">1</span> --gres<span class="o">=</span>gpu:6 -t <span class="m">30</span>
+<div class="highlight-bash notranslate"><div class="highlight"><pre><span></span>salloc -N <span class="m">1</span> --gres<span class="o">=</span>gpu:1 -t <span class="m">30</span>
 </pre></div>
 </div>
 <p>After the command returns, you can run squeue to find the allocated node.</p>
 <div class="highlight-bash notranslate"><div class="highlight"><pre><span></span>squeue
-         JOBID PARTITION     NAME     USER ST       TIME  NODES NODELIST<span class="o">(</span>REASON<span class="o">)</span>
-        <span class="m">172886</span>       dcs     bash BMHRkmkh  R       <span class="m">0</span>:13      <span class="m">1</span> dcs085
-</pre></div>
-</div>
-<p>After the command returns, you can run squeue to find the allocated node.</p>
-<div class="highlight-bash notranslate"><div class="highlight"><pre><span></span><span class="o">(</span>base<span class="o">)</span> <span class="o">[</span>your-id@dcsfen01 wmlce-1.7.0<span class="o">]</span>$ conda list <span class="p">|</span> grep notebook
-notebook                  <span class="m">6</span>.0.3                    py37_0    conda-forge
+       JOBID PARTITION     NAME     USER ST       TIME  NODES NODELIST<span class="o">(</span>REASON<span class="o">)</span>
+      <span class="m">387824</span>       dcs     bash BMHRkmkh  R       <span class="m">1</span>:29      <span class="m">1</span> dcs123
 </pre></div>
 </div>
 </div>
@@ -548,22 +541,24 @@ notebook                  <span class="m">6</span>.0.3                    py37_0
 <ul class="simple">
 <li><p>SSH to the compute node</p></li>
 </ul>
-<div class="highlight-bash notranslate"><div class="highlight"><pre><span></span><span class="o">(</span>base<span class="o">)</span> <span class="o">[</span>BMHRkmkh@dcsfen01 ~<span class="o">]</span>$ ssh dcs035
-Warning: Permanently added <span class="s1">&#39;dcs035,172.31.236.35&#39;</span> <span class="o">(</span>ECDSA<span class="o">)</span> to the list of known hosts.
-
-<span class="o">(</span>base<span class="o">)</span> <span class="o">[</span>BMHRkmkh@dcs035 ~<span class="o">]</span>$
+<div class="highlight-bash notranslate"><div class="highlight"><pre><span></span><span class="o">(</span>base<span class="o">)</span> <span class="o">[</span>BMHRkmkh@dcsfen01 ~<span class="o">]</span>$ ssh dcs123
+Warning: Permanently added <span class="s1">&#39;dcs123,172.31.236.123&#39;</span> <span class="o">(</span>ECDSA<span class="o">)</span> to the list of known hosts.
 </pre></div>
 </div>
 <ul class="simple">
 <li><p>Activate to the conda environment that is appropriated for your notebook.</p></li>
 </ul>
-<div class="highlight-bash notranslate"><div class="highlight"><pre><span></span><span class="o">(</span>base<span class="o">)</span> <span class="o">[</span>BMHRkmkh@dcs035 ~<span class="o">]</span>$ conda activate wmlce-1.7.0
+<div class="highlight-bash notranslate"><div class="highlight"><pre><span></span><span class="o">(</span>base<span class="o">)</span> <span class="o">[</span>BMHRkmkh@dcs123 ~<span class="o">]</span>$ conda activate wmlce-1.7.0
+<span class="o">(</span>wmlce-1.7.0<span class="o">)</span> <span class="o">[</span>BMHRkmkh@dcs123 ~<span class="o">]</span>$
 </pre></div>
 </div>
 <ul class="simple">
 <li><p>Start Jupyter Notebook and set the notebook directory to the barn directory.  <strong>NOTE:</strong> you need to specify the absolute path for the notebook-dir.</p></li>
 </ul>
 <div class="highlight-bash notranslate"><div class="highlight"><pre><span></span><span class="o">(</span>wmlce-1.7.0<span class="o">)</span> <span class="o">[</span>BMHRkmkh@dcs035 scratch-shared<span class="o">]</span>$ jupyter notebook --ip<span class="o">=</span><span class="m">0</span>.0.0.0 --no-browser --notebook-dir<span class="o">=</span>/gpfs/u/home/BMHR/BMHRkmkh/barn
+<span class="o">(</span>wmlce-1.7.0<span class="o">)</span> <span class="o">[</span>BMHRkmkh@dcs123 ~<span class="o">]</span>$ jupyter notebook --ip<span class="o">=</span><span class="m">0</span>.0.0.0 --no-browser --notebook-dir<span class="o">=</span>/gpfs/u/home/BMHR/BMHRkmkh/barn
+<span class="o">[</span>I <span class="m">10</span>:37:36.643 NotebookApp<span class="o">]</span> Serving notebooks from <span class="nb">local</span> directory: /gpfs/u/home/BMHR/BMHRkmkh/barn
+<span class="o">[</span>I <span class="m">10</span>:37:36.643 NotebookApp<span class="o">]</span> The Jupyter Notebook is running at:
 </pre></div>
 </div>
 </div>
@@ -572,35 +567,16 @@ Warning: Permanently added <span class="s1">&#39;dcs035,172.31.236.35&#39;</span
 <h2>Display the WebGUI for a Jupyter notebook via Tunneling<a class="headerlink" href="#display-the-webgui-for-a-jupyter-notebook-via-tunneling" title="Permalink to this headline">¶</a></h2>
 <div class="section" id="prerequisites">
 <h3>Prerequisites<a class="headerlink" href="#prerequisites" title="Permalink to this headline">¶</a></h3>
-<p>Conda and jupyter notebook are installed on the node. For how to see <a class="reference internal" href="#install-conda"><span class="std std-ref">Install Anaconda</span></a> and <a class="reference internal" href="#install-jupyter"><span class="std std-ref">Install Jupyter notebook</span></a></p>
-</div>
-<div class="section" id="id2">
-<h3>Allocate a compute node<a class="headerlink" href="#id2" title="Permalink to this headline">¶</a></h3>
-<p>For example, allocate a compute node for 30 minutes:</p>
-<div class="highlight-default notranslate"><div class="highlight"><pre><span></span><span class="n">salloc</span> <span class="o">-</span><span class="n">N</span> <span class="mi">1</span> <span class="o">--</span><span class="n">salloc</span> <span class="o">-</span><span class="n">N</span> <span class="mi">1</span> <span class="o">--</span><span class="n">gres</span><span class="o">=</span><span class="n">gpu</span><span class="p">:</span><span class="mi">6</span> <span class="o">-</span><span class="n">t</span> <span class="mi">30</span>
-</pre></div>
-</div>
-<p>After the command returns, you can run squeue to find the allocated node.</p>
-<div class="highlight-bash notranslate"><div class="highlight"><pre><span></span>squeue
-           JOBID PARTITION     NAME     USER ST       TIME  NODES NODELIST<span class="o">(</span>REASON<span class="o">)</span>
-          <span class="m">172886</span>       dcs     bash BMHRkmkh  R       <span class="m">0</span>:13      <span class="m">1</span> dcs085
-</pre></div>
-</div>
-</div>
-<div class="section" id="start-the-jupyter-notebook-on-the-allocated-compute-node">
-<h3>Start the jupyter notebook on the allocated compute node<a class="headerlink" href="#start-the-jupyter-notebook-on-the-allocated-compute-node" title="Permalink to this headline">¶</a></h3>
-<p>You then ssh to the allocated node, activate to the appropriated conda environment, change directory to where the jupyter notebooks are in, then  starting jupyter notebook as follow:</p>
-<div class="highlight-bash notranslate"><div class="highlight"><pre><span></span><span class="o">(</span>wmlce-1.7.0<span class="o">)</span> <span class="o">[</span>your-id@dcs085 ~<span class="o">]</span>$ jupyter notebook --ip<span class="o">=</span><span class="m">0</span>.0.0.0 --no-browser
-</pre></div>
-</div>
+<p>Jupyter notebook was started on a compute node. For how to see <a class="reference internal" href="#start-jupyter"><span class="std std-ref">Start Jupyter Notebook</span></a>.</p>
+<p>As with the above example,  Jupyter notebook was started on the node dcs123.</p>
 </div>
 <div class="section" id="ssh-tunnelling-on-a-linux-or-mac-osx-node">
 <h3>SSH tunnelling on a Linux or MAC OSX node<a class="headerlink" href="#ssh-tunnelling-on-a-linux-or-mac-osx-node" title="Permalink to this headline">¶</a></h3>
-<p>Start the ssh session to one of the landing pad nodes and map the port 8888 from dcs085 to port 8888 on the local host.  For example:</p>
-<div class="highlight-bash notranslate"><div class="highlight"><pre><span></span><span class="o">[</span>id@kvt-rhel ~<span class="o">]</span>$ ssh -L8888:dcs085:8888 BMHRkmkh@blp01.ccni.rpi.edu
+<p>Start the ssh session to one of the landing pad nodes and map the port 8888 from dcs123 to port 8888 on the local host.  For example:</p>
+<div class="highlight-bash notranslate"><div class="highlight"><pre><span></span><span class="o">[</span>id@kvt-rhel ~<span class="o">]</span>$ ssh -L8888:dcs123 BMHRkmkh@blp01.ccni.rpi.edu
 </pre></div>
 </div>
-<p>Go to the browser on the node, enter the following to tunnel to the jupyter notebook running on the compute node to the localhost.</p>
+<p>Go to your browser, enter the following to display the jupyter notebook running on the compute node dcs085.</p>
 <div class="highlight-bash notranslate"><div class="highlight"><pre><span></span>http://localhost:8888
 </pre></div>
 </div>
@@ -611,17 +587,18 @@ Warning: Permanently added <span class="s1">&#39;dcs035,172.31.236.35&#39;</span
 </div>
 <div class="section" id="ssh-tunneling-via-putty-on-windows">
 <h3>SSH tunneling via PUTTY on Windows<a class="headerlink" href="#ssh-tunneling-via-putty-on-windows" title="Permalink to this headline">¶</a></h3>
-<p>Go to the putty entry for the landing pad node.  For example:</p>
+<p>Go to the “Change Setting…” of the current putty session, then go to section “Connection-&gt;SSH-&gt;Tunnels”.</p>
 <div class="figure align-default">
 <img alt="_images/putty2.png" src="_images/putty2.png" />
 </div>
-<p>Go section Connection-&gt;SSH-&gt;Tunnels, enter the jupyter notebok URL on the compute node and click <strong>Add</strong>, for example:</p>
+<p>Enter the jupyter notebok URL on the compute node and click <strong>Add</strong>, for example:</p>
 <div class="figure align-default">
 <img alt="_images/putty-tunnel.png" src="_images/putty-tunnel.png" />
 </div>
-<p>Start the putty session and login to the landing node as usual.</p>
+<p>Click “Apply” button to apply the change the  putty session.</p>
+<p><strong>NOTE:</strong> this is a temporary change setting to the putty session.  Once you terminate the putty session, the change will go away.</p>
 <p>After that, go to your browser and enter the following to tunnel to the jupyter notebook running on the compute node.</p>
-<div class="highlight-bash notranslate"><div class="highlight"><pre><span></span>http://localhost:18889
+<div class="highlight-bash notranslate"><div class="highlight"><pre><span></span>http://localhost:8888
 </pre></div>
 </div>
 <p>You should see the jupyter notebook after you enter the token at the login prompt.</p>

diff --git a/docsrc/aimos-workload.rst b/docsrc/aimos-workload.rst
@@ -447,22 +447,17 @@ For example, allocate a compute node for 30 minutes:
 
 .. code:: bash
 
-  salloc -N 1 --salloc -N 1 --gres=gpu:6 -t 30
+  salloc -N 1 --gres=gpu:1 -t 30
+
 
 After the command returns, you can run squeue to find the allocated node.
 
 .. code:: bash
 
-  squeue
-           JOBID PARTITION     NAME     USER ST       TIME  NODES NODELIST(REASON)
-          172886       dcs     bash BMHRkmkh  R       0:13      1 dcs085
+   squeue
+          JOBID PARTITION     NAME     USER ST       TIME  NODES NODELIST(REASON)
+         387824       dcs     bash BMHRkmkh  R       1:29      1 dcs123
 
-After the command returns, you can run squeue to find the allocated node.
-
-.. code:: bash
-
-  (base) [your-id@dcsfen01 wmlce-1.7.0]$ conda list | grep notebook
-  notebook                  6.0.3                    py37_0    conda-forge
 
 Start Jupyter Notebook on the allocated compute node
 ++++++++++++++++++++++++++++++++++++++++++++++++++++
@@ -471,23 +466,27 @@ Start Jupyter Notebook on the allocated compute node
 
 .. code:: bash
 
-  (base) [BMHRkmkh@dcsfen01 ~]$ ssh dcs035
-  Warning: Permanently added 'dcs035,172.31.236.35' (ECDSA) to the list of known hosts.
+  (base) [BMHRkmkh@dcsfen01 ~]$ ssh dcs123
+  Warning: Permanently added 'dcs123,172.31.236.123' (ECDSA) to the list of known hosts.
 
-  (base) [BMHRkmkh@dcs035 ~]$
   
 * Activate to the conda environment that is appropriated for your notebook.
 
 .. code:: bash
 
-  (base) [BMHRkmkh@dcs035 ~]$ conda activate wmlce-1.7.0
+  (base) [BMHRkmkh@dcs123 ~]$ conda activate wmlce-1.7.0
+  (wmlce-1.7.0) [BMHRkmkh@dcs123 ~]$
+
 
 * Start Jupyter Notebook and set the notebook directory to the barn directory.  **NOTE:** you need to specify the absolute path for the notebook-dir.
 
 .. code:: bash
 
   (wmlce-1.7.0) [BMHRkmkh@dcs035 scratch-shared]$ jupyter notebook --ip=0.0.0.0 --no-browser --notebook-dir=/gpfs/u/home/BMHR/BMHRkmkh/barn
-
+  (wmlce-1.7.0) [BMHRkmkh@dcs123 ~]$ jupyter notebook --ip=0.0.0.0 --no-browser --notebook-dir=/gpfs/u/home/BMHR/BMHRkmkh/barn
+  [I 10:37:36.643 NotebookApp] Serving notebooks from local directory: /gpfs/u/home/BMHR/BMHRkmkh/barn
+  [I 10:37:36.643 NotebookApp] The Jupyter Notebook is running at:
+  
 
 Display the WebGUI for a Jupyter notebook via Tunneling
 ^^^^^^^^^^^^^^^^^^^^^^^^^^^^^^^^^^^^^^^^^^^^^^^^^^^^^^^
@@ -495,48 +494,21 @@ Display the WebGUI for a Jupyter notebook via Tunneling
 Prerequisites
 +++++++++++++
 
-Conda and jupyter notebook are installed on the node. For how to see :ref:`install-conda` and :ref:`install-jupyter`
+Jupyter notebook was started on a compute node. For how to see :ref:`start-jupyter`. 
 
-Allocate a compute node
-+++++++++++++++++++++++
-
-For example, allocate a compute node for 30 minutes:
-
-::
-
-  salloc -N 1 --salloc -N 1 --gres=gpu:6 -t 30
-
-After the command returns, you can run squeue to find the allocated node.
-
-.. code:: bash
-
-  squeue
-             JOBID PARTITION     NAME     USER ST       TIME  NODES NODELIST(REASON)
-            172886       dcs     bash BMHRkmkh  R       0:13      1 dcs085
-
-
-Start the jupyter notebook on the allocated compute node
-++++++++++++++++++++++++++++++++++++++++++++++++++++++++
-
-You then ssh to the allocated node, activate to the appropriated conda environment, change directory to where the jupyter notebooks are in, then  starting jupyter notebook as follow:
-
-.. code:: bash
-
-  (wmlce-1.7.0) [your-id@dcs085 ~]$ jupyter notebook --ip=0.0.0.0 --no-browser
-
-
+As with the above example,  Jupyter notebook was started on the node dcs123.
 
 SSH tunnelling on a Linux or MAC OSX node
 +++++++++++++++++++++++++++++++++++++++++
 
-Start the ssh session to one of the landing pad nodes and map the port 8888 from dcs085 to port 8888 on the local host.  For example:
+Start the ssh session to one of the landing pad nodes and map the port 8888 from dcs123 to port 8888 on the local host.  For example:
 
 .. code:: bash
 
-  [id@kvt-rhel ~]$ ssh -L8888:dcs085:8888 BMHRkmkh@blp01.ccni.rpi.edu
+  [id@kvt-rhel ~]$ ssh -L8888:dcs123 BMHRkmkh@blp01.ccni.rpi.edu
 
 
-Go to the browser on the node, enter the following to tunnel to the jupyter notebook running on the compute node to the localhost.
+Go to your browser, enter the following to display the jupyter notebook running on the compute node dcs085.
 
 .. code:: bash
 
@@ -551,21 +523,23 @@ You should see the jupyter notebook after you enter the token at the login promp
 SSH tunneling via PUTTY on Windows
 ++++++++++++++++++++++++++++++++++
 
-Go to the putty entry for the landing pad node.  For example:
+Go to the "Change Setting..." of the current putty session, then go to section "Connection->SSH->Tunnels".
 
 .. figure:: putty2.png
 
-Go section Connection->SSH->Tunnels, enter the jupyter notebok URL on the compute node and click **Add**, for example:
+Enter the jupyter notebok URL on the compute node and click **Add**, for example:
 
 .. figure:: putty-tunnel.png
 
-Start the putty session and login to the landing node as usual.
+Click "Apply" button to apply the change the  putty session.
+
+**NOTE:** this is a temporary change setting to the putty session.  Once you terminate the putty session, the change will go away.
 
 After that, go to your browser and enter the following to tunnel to the jupyter notebook running on the compute node.
 
 .. code:: bash
 
-  http://localhost:18889
+  http://localhost:8888
 
 
 You should see the jupyter notebook after you enter the token at the login prompt.
